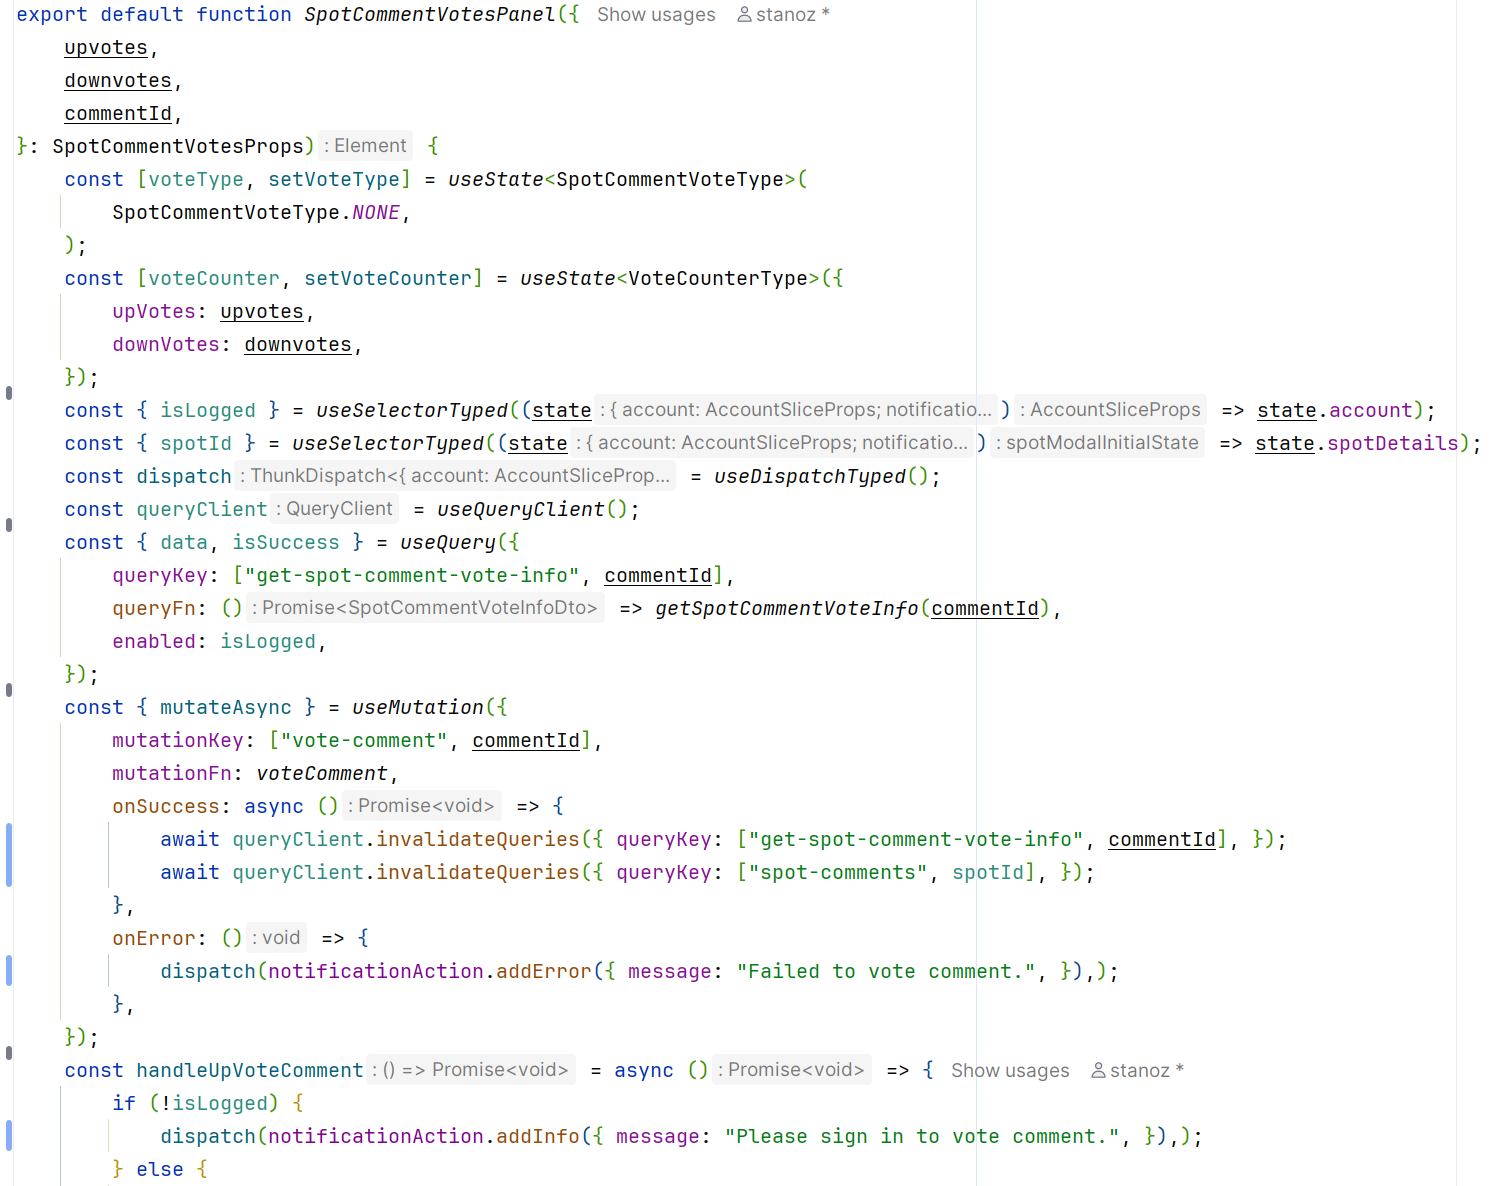
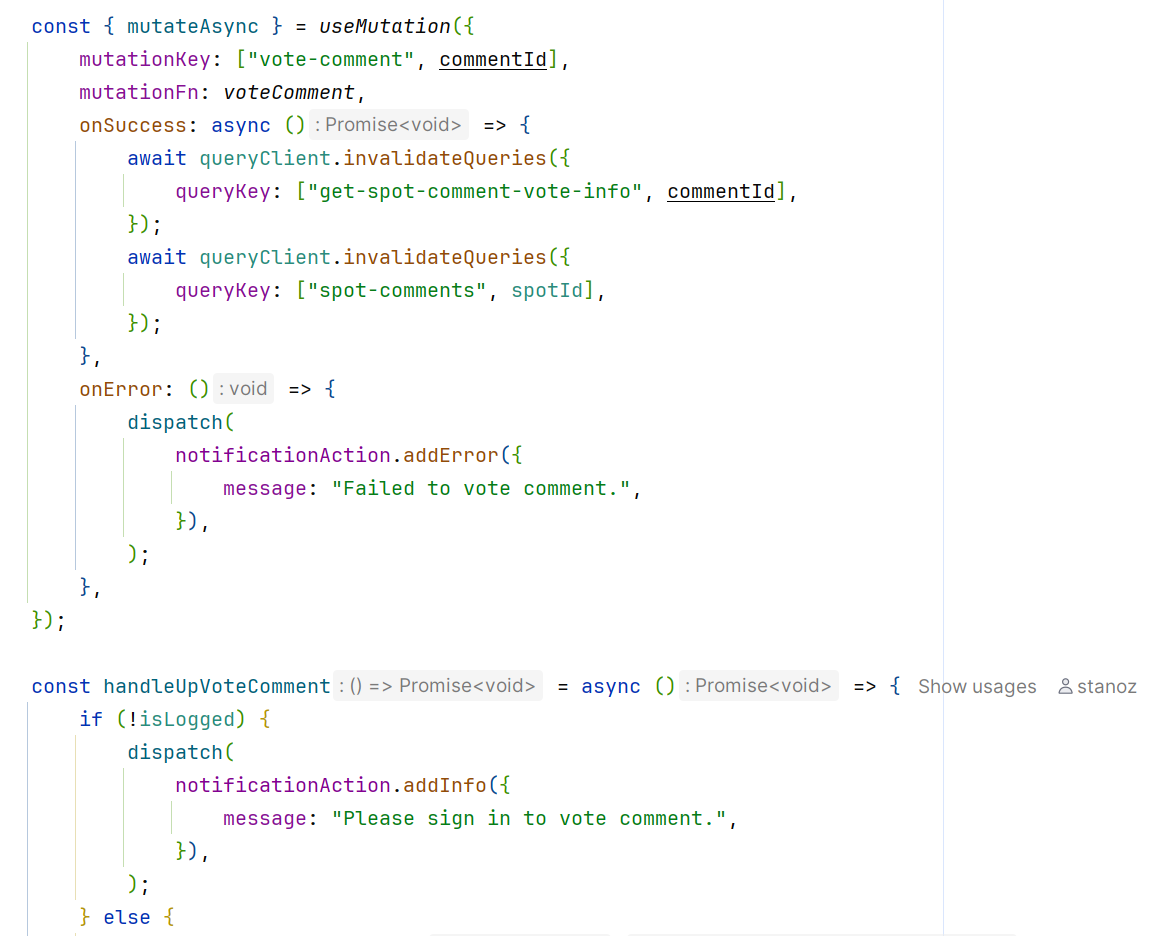
poprawki, podmiania zdjec w implementacji mapy

diff --git a/book/chapters/realizacja-projektu/sections/frontend/map-implementation/szczegoly-spota.tex b/book/chapters/realizacja-projektu/sections/frontend/map-implementation/szczegoly-spota.tex
@@ -217,7 +217,7 @@ do dodania nowego komentarza (\texttt{AddSpotCommentModal}).
 Po jego kliknięciu jeżeli użytkownik nie jest zalogowany, w \glslink{react-component}{komponencie}
 \texttt{Notification} wyswietlany jest komunikat z odpowiednią informacją.
 
-\textbf{\texttt{AddSpotCommentModal}} (rys. \ref{fig:add-spot-comment-1} - \ref{fig:add-spot-comment-4})
+\textbf{\texttt{AddSpotCommentModal}} (rys. \ref{fig:add-spot-comment-1} - \ref{fig:add-spot-comment-6})
 \glslink{modal}{Modal} będący formularzem do dodania nowego komentarza.
 Zawiera w sobie pola do określenia oceny w gwiazdkach, dodania tekstu oraz zdjęć i filmów.
 Ustawienie oceny \glslink{spot}{spota} jest polem obowiązkowym z domyślną wartością 0.
@@ -244,33 +244,49 @@ zamyka formularz, wpisane dane nie zostają zapisane.
 
 \begin{figure}[H]
     \centering
-    \includegraphics[width=1\textwidth]{attachments/implementacja-frontendu/mapa/szczegoly-spota/add_spot_comment1}
-    \caption{Implementacja komponentu AddSpotCommentModal (1/4)}
+    \includegraphics[width=1\textwidth]{attachments/implementacja-frontendu/mapa/szczegoly-spota/add-spot-comment-modal-1}
+    \caption{Implementacja komponentu AddSpotCommentModal (1/6)}
     \label{fig:add-spot-comment-1}
 \end{figure}
 \noindent
 
 \begin{figure}[H]
     \centering
-    \includegraphics[width=1\textwidth]{attachments/implementacja-frontendu/mapa/szczegoly-spota/add_spot_comment2}
-    \caption{Implementacja komponentu AddSpotCommentModal (2/4)}
+    \includegraphics[width=1\textwidth]{attachments/implementacja-frontendu/mapa/szczegoly-spota/add-spot-comment-modal-2}
+    \caption{Implementacja komponentu AddSpotCommentModal (2/6)}
     \label{fig:add-spot-comment-2}
 \end{figure}
 \noindent
 
 \begin{figure}[H]
     \centering
-    \includegraphics[width=1\textwidth]{attachments/implementacja-frontendu/mapa/szczegoly-spota/add_spot_comment3}
-    \caption{Implementacja komponentu AddSpotCommentModal (3/4)}
+    \includegraphics[width=1\textwidth]{attachments/implementacja-frontendu/mapa/szczegoly-spota/add-spot-comment-modal-3}
+    \caption{Implementacja komponentu AddSpotCommentModal (3/6)}
     \label{fig:add-spot-comment-3}
 \end{figure}
 \noindent
 
 \begin{figure}[H]
     \centering
-    \includegraphics[width=1\textwidth]{attachments/implementacja-frontendu/mapa/szczegoly-spota/add_spot_comment4}
-    \caption{Implementacja komponentu AddSpotCommentModal (4/4)}
+    \includegraphics[width=1\textwidth]{attachments/implementacja-frontendu/mapa/szczegoly-spota/add-spot-comment-modal-4}
+    \caption{Implementacja komponentu AddSpotCommentModal (4/6)}
     \label{fig:add-spot-comment-4}
+\end{figure}
+\noindent
+
+\begin{figure}[H]
+    \centering
+    \includegraphics[width=1\textwidth]{attachments/implementacja-frontendu/mapa/szczegoly-spota/add-spot-comment-modal-5}
+    \caption{Implementacja komponentu AddSpotCommentModal (5/6)}
+    \label{fig:add-spot-comment-5}
+\end{figure}
+\noindent
+
+\begin{figure}[H]
+    \centering
+    \includegraphics[width=1\textwidth]{attachments/implementacja-frontendu/mapa/szczegoly-spota/add-spot-comment-modal-6}
+    \caption{Implementacja komponentu AddSpotCommentModal (6/6)}
+    \label{fig:add-spot-comment-6}
 \end{figure}
 \noindent
 
@@ -299,7 +315,7 @@ Na wynik operacji nasłuchuje \glslink{hook}{hook} \texttt{useEffect}, który po
 \glslink{redux}{Redux} ustawia \texttt{ID} elementu, jego pozycję w całej liście oraz typ (zdjęcie lub film).
 Następnie otwiera dużą galerię multimediów \glslink{spot}{spota} (por. sekcja~\ref{subsubsec:duza-galeria-zdjec-i-filmow}).
 
-\textbf{\texttt{SpotCommentVotesPanel}} (rys. \ref{fig:spot-comment-vote-panel-1} - \ref{fig:spot-comment-vote-panel-3})
+\textbf{\texttt{SpotCommentVotesPanel}} (rys. \ref{fig:spot-comment-vote-panel-0} - \ref{fig:spot-comment-vote-panel-3})
 \glslink{react-component}{Komponent} odpowiedzialny za wyświetlanie polubień i niepolubień komentarza oraz obsługę operacji
 oddania głosu przez użytkownika.
 Za pomocą \glslink{hook}{hook'a} \texttt{useQuery} (\glslink{biblioteka}{biblioteka} \texttt{tanstack query}) pobierana
@@ -324,8 +340,16 @@ ikoną.
 
 \begin{figure}[H]
     \centering
+    \includegraphics[width=1\textwidth]{attachments/implementacja-frontendu/mapa/szczegoly-spota/spot_comment_vote_panel0}
+    \caption{Implementacja komponentu SpotCommentVotesPanel (1/4)}
+    \label{fig:spot-comment-vote-panel-0}
+\end{figure}
+\noindent
+
+\begin{figure}[H]
+    \centering
     \includegraphics[width=1\textwidth]{attachments/implementacja-frontendu/mapa/szczegoly-spota/spot_comment_vote_panel1}
-    \caption{Implementacja komponentu SpotCommentVotesPanel (1/3)}
+    \caption{Implementacja komponentu SpotCommentVotesPanel (2/4)}
     \label{fig:spot-comment-vote-panel-1}
 \end{figure}
 \noindent
@@ -333,7 +357,7 @@ ikoną.
 \begin{figure}[H]
     \centering
     \includegraphics[width=1\textwidth]{attachments/implementacja-frontendu/mapa/szczegoly-spota/spot_comment_vote_panel2}
-    \caption{Implementacja komponentu SpotCommentVotesPanel (2/3)}
+    \caption{Implementacja komponentu SpotCommentVotesPanel (3/4)}
     \label{fig:spot-comment-vote-panel-2}
 \end{figure}
 \noindent
@@ -341,7 +365,7 @@ ikoną.
 \begin{figure}[H]
     \centering
     \includegraphics[width=1\textwidth]{attachments/implementacja-frontendu/mapa/szczegoly-spota/spot_comment_vote_panel3}
-    \caption{Implementacja komponentu SpotCommentVotesPanel (3/3)}
+    \caption{Implementacja komponentu SpotCommentVotesPanel (4/4)}
     \label{fig:spot-comment-vote-panel-3}
 \end{figure}
 \noindent

diff --git a/book/chapters/realizacja-projektu/sections/frontend/map-implementation/mapa-spoty.tex b/book/chapters/realizacja-projektu/sections/frontend/map-implementation/mapa-spoty.tex
@@ -23,7 +23,7 @@ Mapa zbudowana jest z następujących \glslink{react-component}{komponentów}:
     \item \texttt{SpotTag}
 \end{itemize}
 
-\textbf{\texttt{MapPage}} (rys. \ref{fig:map-page-1} - \ref{fig:map-page-3})
+\textbf{\texttt{MapPage}} (rys. \ref{fig:map-page-1} - \ref{fig:map-page-5})
 To główny \glslink{react-component}{komponent} prezentujący mapę.
 Zawiera w sobie \texttt{Map} z \glslink{biblioteka}{biblioteki} \texttt{react-maplibre}, w którym ustawia się domyślną
 lokalizację, na którą ustawiony jest obraz mapy oraz poziom przybliżenia.
@@ -39,25 +39,41 @@ i jego pogodą (por. sekcja~\ref{subsubsec:panel-z-informacjami-pogodowymi}).
 
 \begin{figure}[H]
     \centering
-    \includegraphics[width=1\textwidth]{attachments/implementacja-frontendu/mapa/mapa-spoty/map_page1}
-    \caption{Implementacja komponentu MapPage (1/3)}
+    \includegraphics[width=1\textwidth]{attachments/implementacja-frontendu/mapa/mapa-spoty/map-page-1}
+    \caption{Implementacja komponentu MapPage (1/5)}
     \label{fig:map-page-1}
 \end{figure}
 \noindent
 
 \begin{figure}[H]
     \centering
-    \includegraphics[width=1\textwidth]{attachments/implementacja-frontendu/mapa/mapa-spoty/map_page2}
-    \caption{Implementacja komponentu MapPage (2/3)}
+    \includegraphics[width=1\textwidth]{attachments/implementacja-frontendu/mapa/mapa-spoty/map-page-2}
+    \caption{Implementacja komponentu MapPage (2/5)}
     \label{fig:map-page-2}
 \end{figure}
 \noindent
 
 \begin{figure}[H]
     \centering
-    \includegraphics[width=1\textwidth]{attachments/implementacja-frontendu/mapa/mapa-spoty/map_page3}
-    \caption{Implementacja komponentu MapPage (3/3)}
+    \includegraphics[width=1\textwidth]{attachments/implementacja-frontendu/mapa/mapa-spoty/map-page-3}
+    \caption{Implementacja komponentu MapPage (3/5)}
     \label{fig:map-page-3}
+\end{figure}
+\noindent
+
+\begin{figure}[H]
+    \centering
+    \includegraphics[width=1\textwidth]{attachments/implementacja-frontendu/mapa/mapa-spoty/map-page-4}
+    \caption{Implementacja komponentu MapPage (4/5)}
+    \label{fig:map-page-4}
+\end{figure}
+\noindent
+
+\begin{figure}[H]
+    \centering
+    \includegraphics[width=1\textwidth]{attachments/implementacja-frontendu/mapa/mapa-spoty/map-page-5}
+    \caption{Implementacja komponentu MapPage (5/5)}
+    \label{fig:map-page-5}
 \end{figure}
 \noindent
 
@@ -134,7 +150,7 @@ Pochodzący z niej \glslink{hook}{hook} \texttt{useMap} zwraca aktualną instanc
 funkcja \texttt{flyTo} przenosząca płynnie obraz na wskazane koordynaty.
 Informacje o błędach podczas operacji wyświetlane są w \texttt{Notification}.
 
-\textbf{\texttt{SearchCurrentViewButton}} (rys. \ref{fig:search-current-view-btn})
+\textbf{\texttt{SearchCurrentViewButton}} (rys. \ref{fig:search-current-view-btn-1} i rys. \ref{fig:search-current-view-btn-2})
 \glslink{react-component}{Komponent} będący przyciskiem, po kliknięciu którego pokazywana jest lista \glslink{spot}{spotów}
 znajdujących się w widocznym obszarze mapy.
 Naciśnięcie wywołuje funkcję \texttt{handleClickSearchCurrentView}, która na obecnej instacji mapy zwróconej
@@ -146,9 +162,17 @@ znalezionych elementów.
 
 \begin{figure}[H]
     \centering
-    \includegraphics[width=1\textwidth]{attachments/implementacja-frontendu/mapa/mapa-spoty/search_current_view_btn}
-    \caption{Implementacja komponentu SearchCurrentViewButton}
-    \label{fig:search-current-view-btn}
+    \includegraphics[width=1\textwidth]{attachments/implementacja-frontendu/mapa/mapa-spoty/search-current-view-btn-1}
+    \caption{Implementacja komponentu SearchCurrentViewButton (1/2)}
+    \label{fig:search-current-view-btn-1}
+\end{figure}
+\noindent
+
+\begin{figure}[H]
+    \centering
+    \includegraphics[width=1\textwidth]{attachments/implementacja-frontendu/mapa/mapa-spoty/search-current-view-btn-2}
+    \caption{Implementacja komponentu SearchCurrentViewButton (2/2)}
+    \label{fig:search-current-view-btn-2}
 \end{figure}
 \noindent
 

diff --git a/book/chapters/realizacja-projektu/sections/frontend/map-implementation/pogoda.tex b/book/chapters/realizacja-projektu/sections/frontend/map-implementation/pogoda.tex
@@ -65,7 +65,7 @@ Został zbudowany z dziesięciu \glslink{react-component}{komponentów}:
 
 
 
-\textbf{\texttt{DetailedSpotWeather}} (rys. \ref{fig:detailed-spot-weather-1} i \ref{fig:detailed-spot-weather-2})
+\textbf{\texttt{DetailedSpotWeather}} (rys. \ref{fig:detailed-spot-weather-0} i \ref{fig:detailed-spot-weather-2})
 Odpowiedzialny jest za układ wszystkich części panelu.
 Zawiera w sobie \glslink{react-component}{komponenty} \texttt{WeatherOverview}, \texttt{WeatherDetails}, \texttt{WindSpeeds}
 oraz \texttt{WeatherTimelinePlot}, które wyświetlają poszczególne częsci informacji pogodowych.
@@ -79,8 +79,16 @@ Zamknięcie panelu spowoduje wyświetlenie \glslink{react-component}{komponentu}
 
 \begin{figure}[H]
     \centering
+    \includegraphics[width=1\textwidth]{attachments/implementacja-frontendu/mapa/pogoda/detailed_spot_weather0}
+    \caption{Implementacja komponentu DetailedSpotWeather (1/3)}
+    \label{fig:detailed-spot-weather-0}
+\end{figure}
+\noindent
+
+\begin{figure}[H]
+    \centering
     \includegraphics[width=1\textwidth]{attachments/implementacja-frontendu/mapa/pogoda/detailed_spot_weather1}
-    \caption{Implementacja komponentu DetailedSpotWeather (1/2)}
+    \caption{Implementacja komponentu DetailedSpotWeather (2/3)}
     \label{fig:detailed-spot-weather-1}
 \end{figure}
 \noindent
@@ -88,13 +96,13 @@ Zamknięcie panelu spowoduje wyświetlenie \glslink{react-component}{komponentu}
 \begin{figure}[H]
     \centering
     \includegraphics[width=1\textwidth]{attachments/implementacja-frontendu/mapa/pogoda/detailed_spot_weather2}
-    \caption{Implementacja komponentu DetailedSpotWeather (2/2)}
+    \caption{Implementacja komponentu DetailedSpotWeather (3/3)}
     \label{fig:detailed-spot-weather-2}
 \end{figure}
 \noindent
 
 
-\textbf{\texttt{WeatherOverview}} (rys. \ref{fig:weather-overview-1} i \ref{fig:weather-overview-2})
+\textbf{\texttt{WeatherOverview}} (rys. \ref{fig:weather-overview-1} i \ref{fig:weather-overview-3})
 Wyświetla informacje ogólne informacje o \glslink{spot}{spocie} i jego pogodzie: temperaturę, aktualny czas,
 ikonę wraz ze słownym opisem, nazwę, lokalizację.
 Do poprawnego wyświetlania czasu, z \glslink{backend}{backendu} pobierana jest strefa czasowa \glslink{spot}{spota}.
@@ -109,17 +117,25 @@ Nazwa oraz lokalizacja \glslink{spot}{spota} pobierane są ze stanu \glslink{red
 
 \begin{figure}[H]
     \centering
-    \includegraphics[width=1\textwidth]{attachments/implementacja-frontendu/mapa/pogoda/weather_overwiev1}
-    \caption{Implementacja komponentu WeatherOverview (1/2)}
+    \includegraphics[width=1\textwidth]{attachments/implementacja-frontendu/mapa/pogoda/weather-overview-1}
+    \caption{Implementacja komponentu WeatherOverview (1/3)}
     \label{fig:weather-overview-1}
 \end{figure}
 \noindent
 
 \begin{figure}[H]
     \centering
-    \includegraphics[width=1\textwidth]{attachments/implementacja-frontendu/mapa/pogoda/weather_overwiev2}
-    \caption{Implementacja komponentu WeatherOverview (2/2)}
+    \includegraphics[width=1\textwidth]{attachments/implementacja-frontendu/mapa/pogoda/weather-overview-2}
+    \caption{Implementacja komponentu WeatherOverview (2/3)}
     \label{fig:weather-overview-2}
+\end{figure}
+\noindent
+
+\begin{figure}[H]
+    \centering
+    \includegraphics[width=1\textwidth]{attachments/implementacja-frontendu/mapa/pogoda/weather-overview-3}
+    \caption{Implementacja komponentu WeatherOverview (3/3)}
+    \label{fig:weather-overview-3}
 \end{figure}
 \noindent
 
